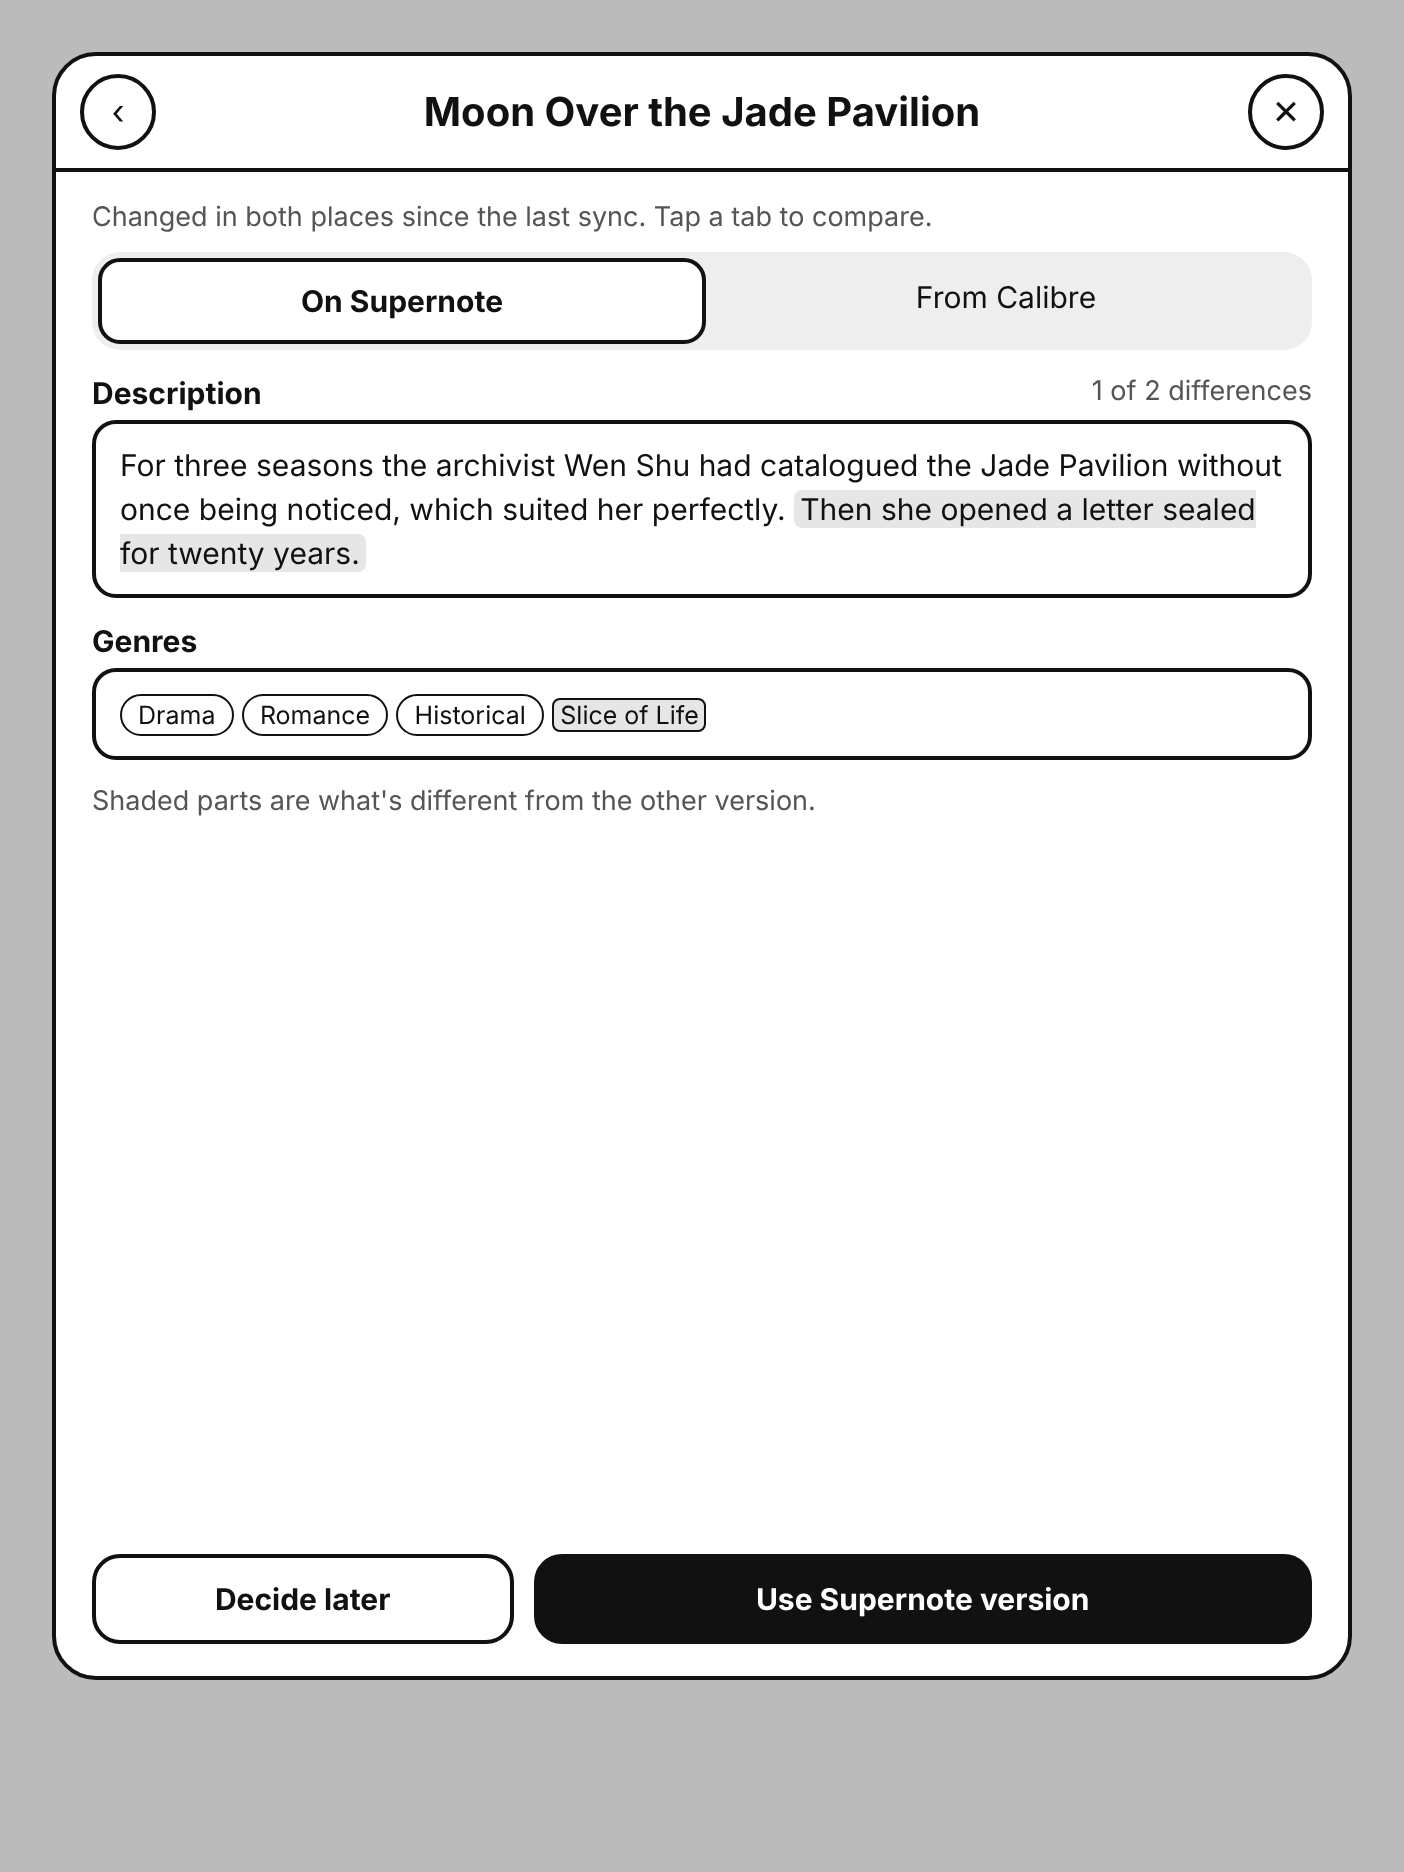
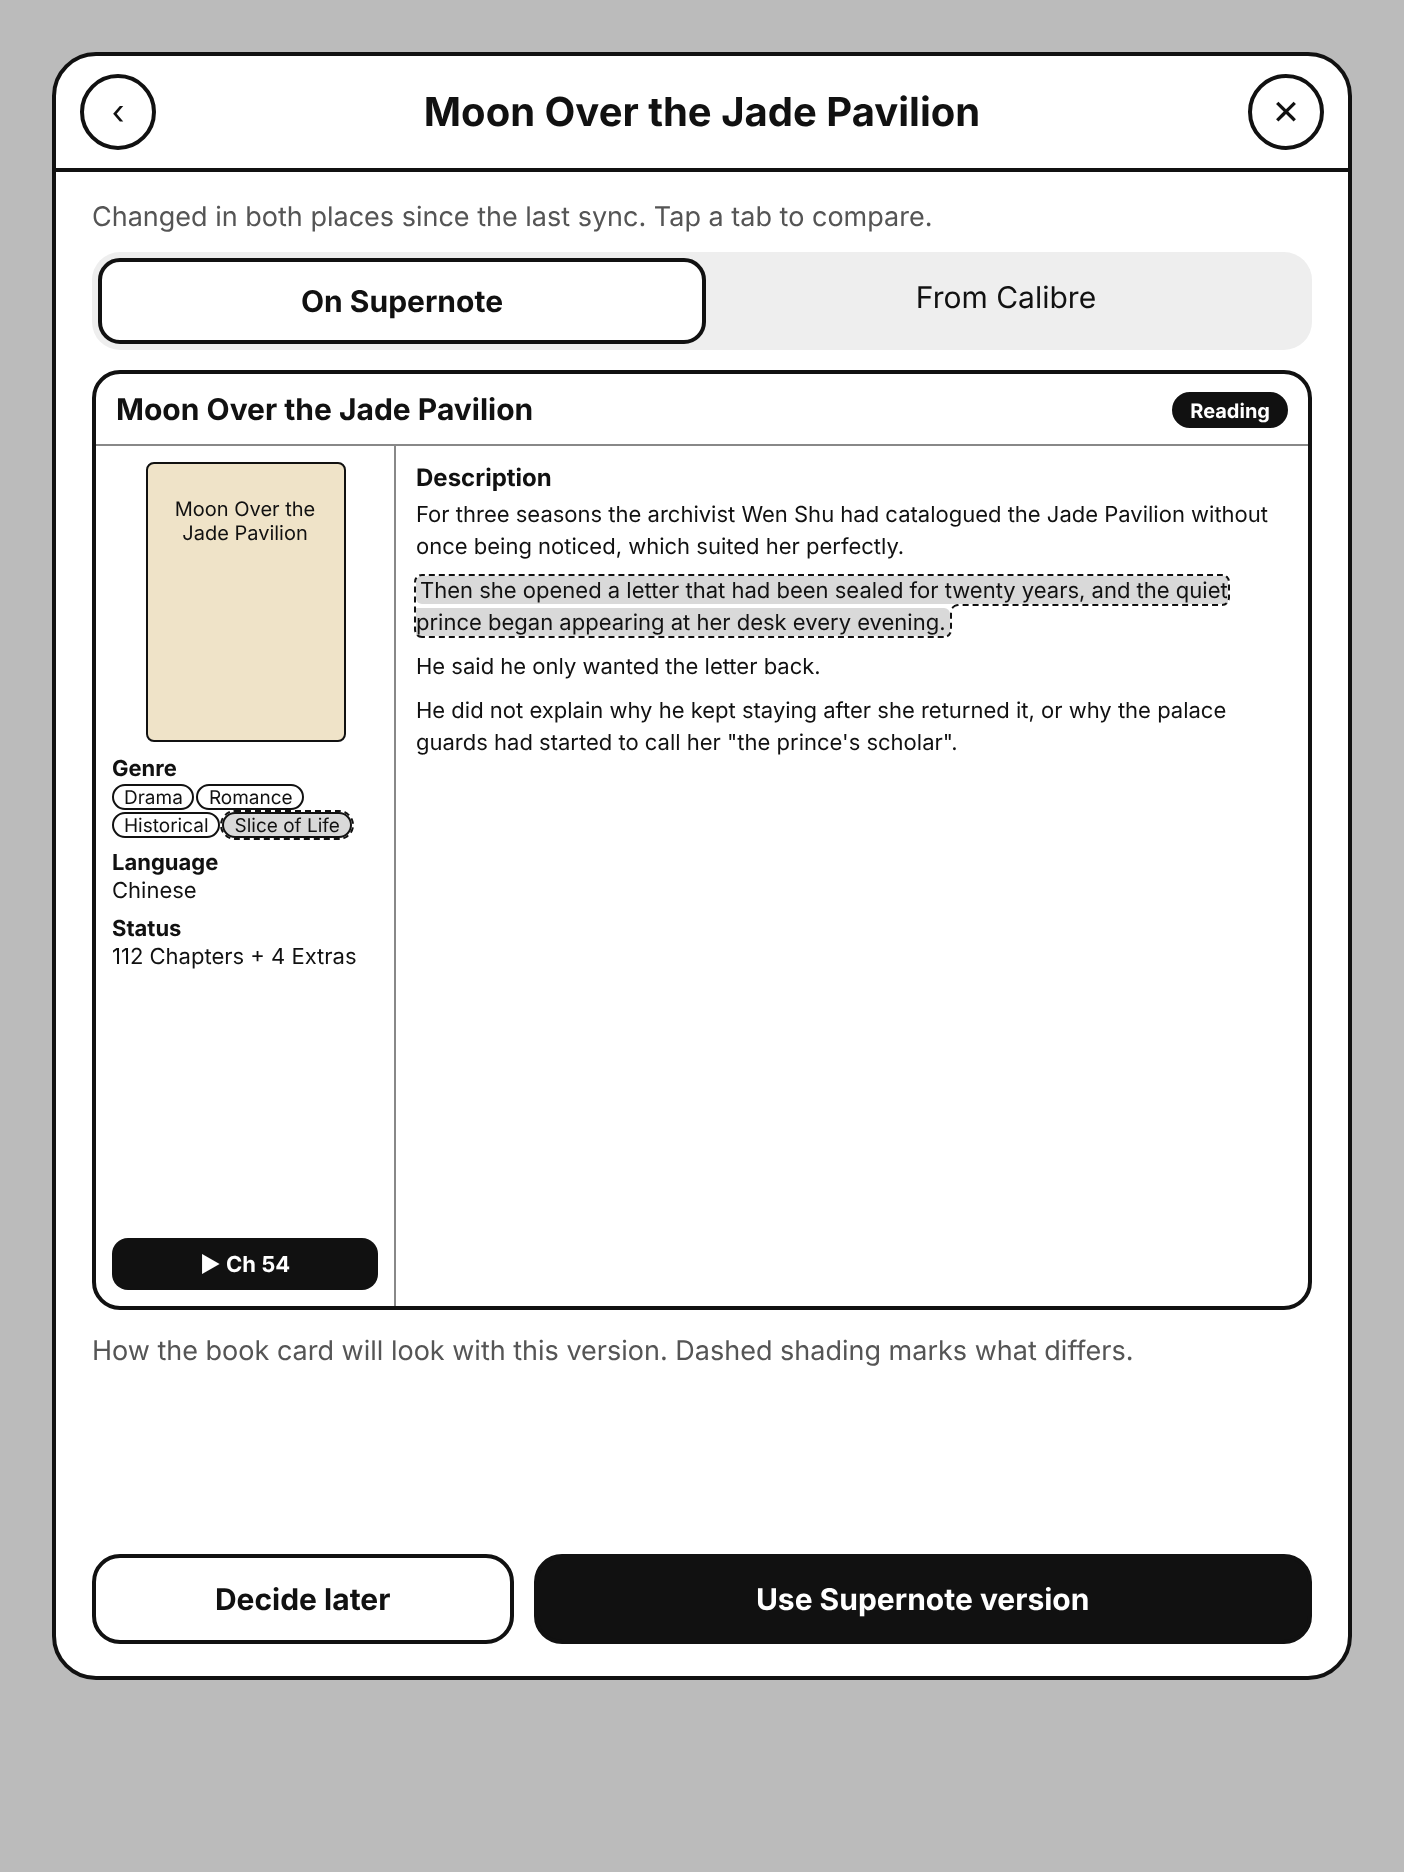
Mockup: conflict tabs show a small preview of the book card
Claude-Session: https://claude.ai/code/session_01X56ddDHNWUKJn2BBuoFg9X

diff --git a/tools/mockups/sync.html b/tools/mockups/sync.html
@@ -17,6 +17,19 @@
 .btn{border:2px solid #111;border-radius:14px;padding:11px 14px;font-weight:700;font-size:15px;text-align:center}.btn.dark{background:#111;color:#fff}
 .foot{position:absolute;left:18px;right:18px;bottom:16px;display:flex;gap:10px}
 .dots{display:flex;gap:6px;justify-content:center;margin-top:6px}.dots i{width:9px;height:9px;border-radius:5px;border:1.5px solid #111}.dots i.on{background:#111}
+.mini{border:2px solid #111;border-radius:14px;overflow:hidden;margin-top:6px;font-size:11px}
+.mini .mt{display:flex;justify-content:space-between;align-items:center;padding:8px 10px;border-bottom:1px solid #888}
+.mini .mt b{font-size:15px}.mini .st{border:1.5px solid #111;border-radius:10px;padding:2px 8px;font-size:10px;font-weight:700;background:#111;color:#fff}
+.mini .mc{display:flex;height:430px}
+.mini .ml{width:150px;border-right:1px solid #888;padding:8px;position:relative}
+.mini .mr{flex:1;padding:8px 10px}
+.mini .mcov{width:100px;height:140px;border:1.5px solid #111;border-radius:4px;background:#efe3c8;margin:0 auto 6px;text-align:center;padding:16px 6px;font-size:10px}
+.mini .lab{font-weight:700;font-size:11px;margin-top:5px}
+.mini .chip{display:inline-block;border:1px solid #111;border-radius:8px;padding:0 5px;font-size:9.5px;margin:1px 1px 0 0}
+.mini p{font-size:11px;line-height:1.45;margin-bottom:6px}
+.mini .play{position:absolute;left:8px;right:8px;bottom:8px;background:#111;color:#fff;border-radius:8px;text-align:center;font-weight:700;font-size:11px;padding:6px}
+.mini h4{font-size:12px;margin-bottom:4px}
+.diff{background:#d9d9d9;border-radius:3px;padding:0 2px;outline:1.5px dashed #111}
 </style></head><body>
 <div class="f" id="a"><div class="card">
  <div class="bar"><div class="ib">‹</div><b style="font-size:20px">Changes from Calibre</b><div class="ib">✕</div></div>
@@ -35,11 +48,17 @@
  <div class="pad">
   <div class="sub">Changed in both places since the last sync. Tap a tab to compare.</div>
   <div class="seg"><div class="on">On Supernote</div><div>From Calibre</div></div>
-  <div class="field">Description <span class="sub" style="font-weight:400">1 of 2 differences</span></div>
-  <div class="box">For three seasons the archivist Wen Shu had catalogued the Jade Pavilion without once being noticed, which suited her perfectly. <span class="diff">Then she opened a letter sealed for twenty years.</span></div>
-  <div class="field">Genres</div>
-  <div class="box"><span class="pill">Drama</span> <span class="pill">Romance</span> <span class="pill">Historical</span> <span class="pill diff">Slice of Life</span></div>
-  <div class="sub" style="margin-top:12px">Shaded parts are what's different from the other version.</div>
+  <div class="mini"><div class="mt"><b>Moon Over the Jade Pavilion</b><span class="st">Reading</span></div>
+ <div class="mc"><div class="ml"><div class="mcov">Moon Over the Jade Pavilion</div>
+  <div class="lab">Genre</div><div><span class="chip">Drama</span><span class="chip">Romance</span><span class="chip">Historical</span><span class="chip diff">Slice of Life</span></div>
+  <div class="lab">Language</div><div>Chinese</div><div class="lab">Status</div><div>112 Chapters + 4 Extras</div>
+  <div class="play">&#9654; Ch 54</div></div>
+ <div class="mr"><h4>Description</h4>
+  <p>For three seasons the archivist Wen Shu had catalogued the Jade Pavilion without once being noticed, which suited her perfectly.</p>
+  <p><span class="diff">Then she opened a letter that had been sealed for twenty years, and the quiet prince began appearing at her desk every evening.</span></p>
+  <p>He said he only wanted the letter back.</p>
+  <p>He did not explain why he kept staying after she returned it, or why the palace guards had started to call her "the prince's scholar".</p></div></div></div>
+  <div class="sub" style="margin-top:12px">How the book card will look with this version. Dashed shading marks what differs.</div>
  </div>
  <div class="foot"><div class="btn" style="flex:1">Decide later</div><div class="btn dark" style="flex:2">Use Supernote version</div></div>
 </div></div>
@@ -48,11 +67,17 @@
  <div class="pad">
   <div class="sub">Changed in both places since the last sync. Tap a tab to compare.</div>
   <div class="seg"><div>On Supernote</div><div class="on">From Calibre</div></div>
-  <div class="field">Description <span class="sub" style="font-weight:400">1 of 2 differences</span></div>
-  <div class="box">For three seasons the archivist Wen Shu had catalogued the Jade Pavilion without once being noticed, which suited her perfectly. <span class="diff">Then a sealed letter, twenty years old, changed everything.</span></div>
-  <div class="field">Genres</div>
-  <div class="box"><span class="pill">Drama</span> <span class="pill">Romance</span> <span class="pill">Historical</span> <span class="pill diff">Palace Intrigue</span></div>
-  <div class="sub" style="margin-top:12px">Shaded parts are what's different from the other version.</div>
+  <div class="mini"><div class="mt"><b>Moon Over the Jade Pavilion</b><span class="st">Reading</span></div>
+ <div class="mc"><div class="ml"><div class="mcov">Moon Over the Jade Pavilion</div>
+  <div class="lab">Genre</div><div><span class="chip">Drama</span><span class="chip">Romance</span><span class="chip">Historical</span><span class="chip diff">Palace Intrigue</span></div>
+  <div class="lab">Language</div><div>Chinese</div><div class="lab">Status</div><div>112 Chapters + 4 Extras</div>
+  <div class="play">&#9654; Ch 54</div></div>
+ <div class="mr"><h4>Description</h4>
+  <p>For three seasons the archivist Wen Shu had catalogued the Jade Pavilion without once being noticed, which suited her perfectly.</p>
+  <p><span class="diff">Then a sealed letter, twenty years old, changed everything, and the quiet prince began appearing at her desk.</span></p>
+  <p>He said he only wanted the letter back.</p>
+  <p>He did not explain why he kept staying after she returned it, or why the palace guards had started to call her "the prince's scholar".</p></div></div></div>
+  <div class="sub" style="margin-top:12px">How the book card will look with this version. Dashed shading marks what differs.</div>
  </div>
  <div class="foot"><div class="btn" style="flex:1">Decide later</div><div class="btn dark" style="flex:2">Use Calibre version</div></div>
 </div></div>
